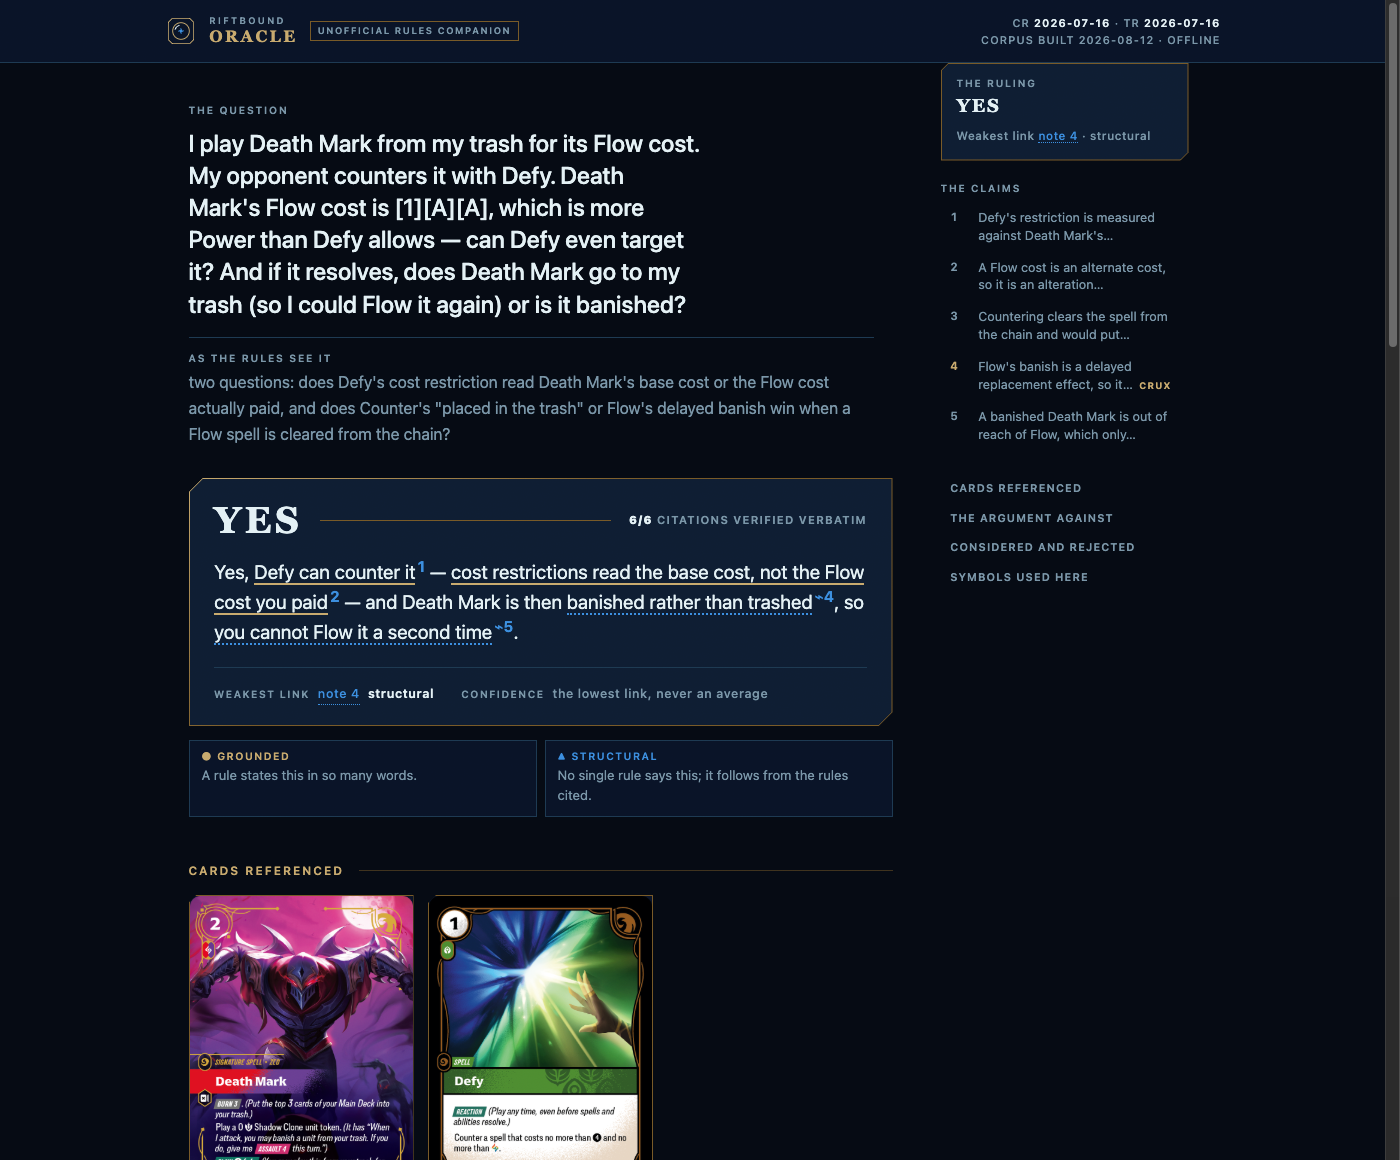
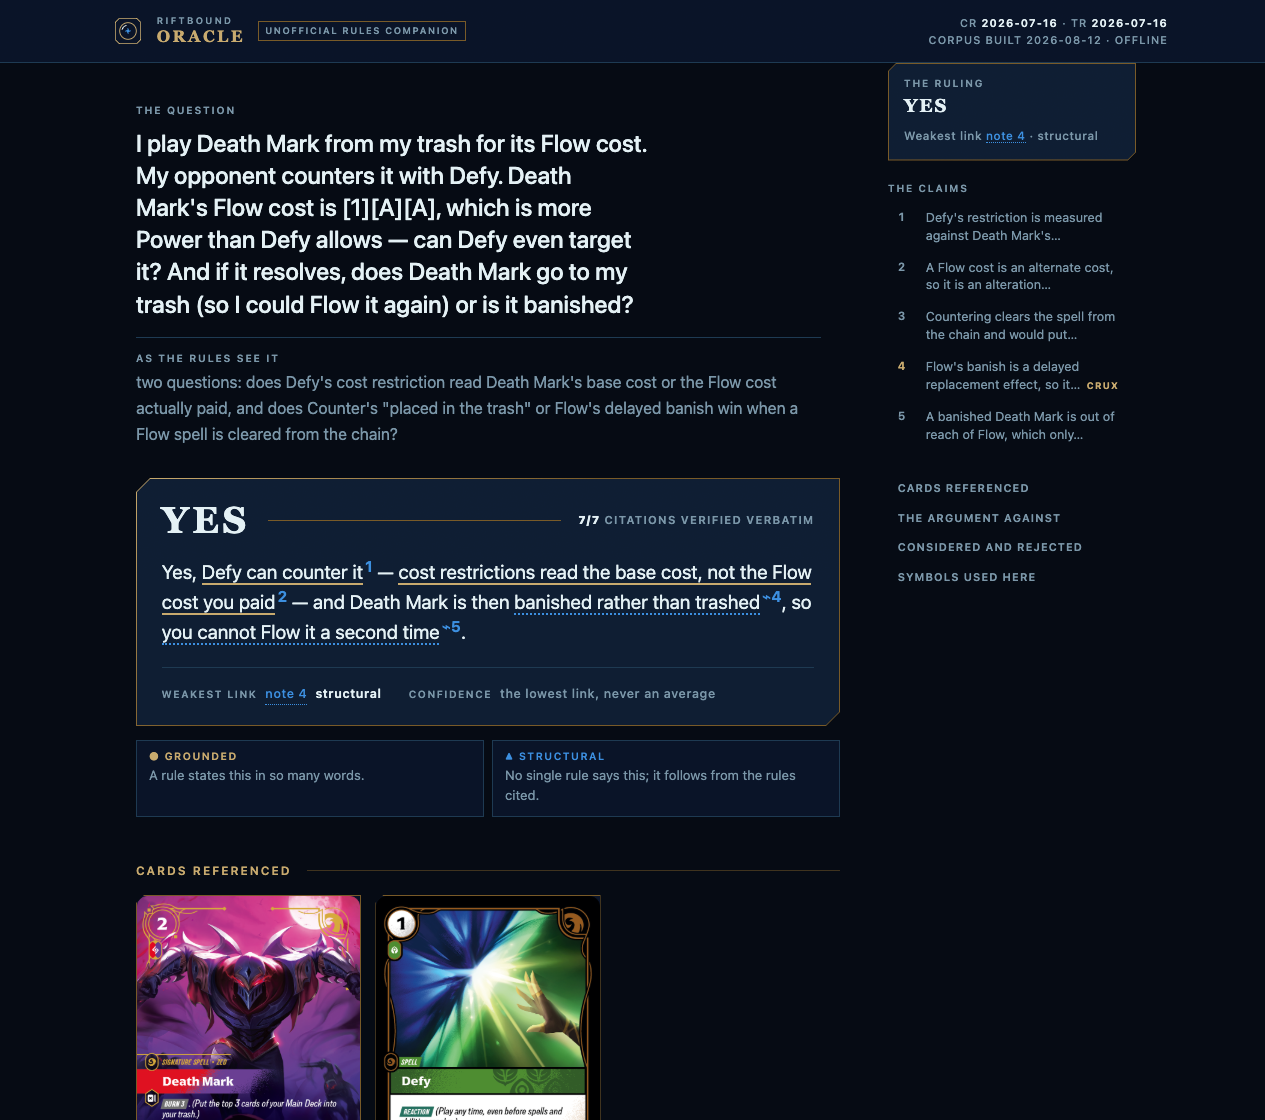
fix(report): print legibility, a fabricated legend row, and three crash paths
Browser and print verification of the rebuild, plus an adversarial review pass.
Fifteen findings confirmed; the substantive ones fixed here.

PRINT INVERTED THE ARGUMENT
  The print block remaps the semantic tokens but not the raw palette ones, so
  anything reaching for a palette value directly kept its dark-ground colour on
  paper. --gold-500 printed at 2.23:1 on white, --slate-300 at 3.11:1,
  --mist-100 at 1.15:1.

  The worst of it: .sp-grounded uses --gold-500 and .sp-inferred uses --blue,
  which IS remapped. On paper the grounded half of the verdict line all but
  vanished while the inferred half printed at 16.75:1 — the epistemic hierarchy
  of the one-line answer reversed, on the artifact judges actually read. The
  .prob and .card-gap failure markers lost their border entirely and printed as
  unmarked paragraphs.

  Remapping the three palette tokens in the print :root fixes every symptom at
  once, including the two border cases a colour-only selector list cannot reach.
  All six surfaces move 2.23:1 -> 6.38:1. Verified by printing to PDF and
  looking at it.

A FABRICATED LEGEND ROW IN EVERY REPORT
  legend_html scanned the finished page with tags stripped but script BODIES
  left in. The overlay JS contains `m[1]` and `m[2]`, so every report shipped a
  "[1] · [2] — that much Energy" row citing CR 429.5 for symbols appearing
  nowhere on the page. That is a fabricated citation, which is the one thing
[…]

diff --git a/.claude/skills/rules-report/data/rules.html b/.claude/skills/rules-report/data/rules.html
@@ -35,7 +35,7 @@ h1::after{content:"";flex:1;height:1px;background:var(--gold-700);opacity:.5}
 .meta{margin-top:.7rem;color:var(--dim);font:500 .76rem/1.6 var(--plate);letter-spacing:.05em}
 .search{width:100%;margin:1.1rem 0 0;padding:.7rem .8rem;border:1px solid var(--line);
  background:var(--card);color:var(--fg);font:400 .92rem/1.4 var(--body)}
-.search::placeholder{color:var(--slate-400)}
+.search::placeholder{color:var(--dim)}
 .search:focus-visible{outline:2px solid var(--gold-500);outline-offset:2px;border-color:var(--gold-500)}
 .toc-doc h3{margin:1.6rem 0 .5rem;font:600 .68rem/1 var(--plate);letter-spacing:.17em;
  text-transform:uppercase;color:var(--gold-500)}
@@ -68,7 +68,10 @@ a.xref:hover{color:var(--fg);border-bottom-color:var(--fg)}
 .eg{margin:.4rem 0 .4rem 5.5rem;padding:.5rem .8rem;background:var(--card);
  border-left:2px solid var(--gold-700);font-size:.87rem;color:var(--dim);max-width:64ch}
 .see{margin:.25rem 0 .25rem 5.5rem;font:500 .76rem/1.6 var(--plate);letter-spacing:.06em;
- color:var(--slate-400)}
+ /* --dim, not slate-400: that is the divider floor (3.4:1 here) and this is
+    text. An unresolvable cross-reference stays as bare text, so the refs you
+    cannot follow were also the ones you could barely read. */
+ color:var(--dim)}
 .see a{color:var(--accent);text-decoration:none;border-bottom:1px dotted var(--accent)}
 .see a:hover{color:var(--fg);border-bottom-color:var(--fg)}
 a:focus-visible{outline:2px solid var(--gold-500);outline-offset:2px}
@@ -78,7 +81,11 @@ a:focus-visible{outline:2px solid var(--gold-500);outline-offset:2px}
     page background is transparent, and the sheet prints black on black. */
  :root{color-scheme:light;
   --bg:transparent;--fg:var(--ink-900);--dim:var(--slate-400);--line:var(--slate-400);
-  --card:transparent;--accent:var(--ink-700);--wash:transparent;--lift:transparent}
+  --card:transparent;--accent:var(--ink-700);--wash:transparent;--lift:transparent;
+  /* Raw palette tokens need remapping too, not just the semantic ones —
+     anything using one DIRECTLY kept its dark-ground value on paper
+     (slate-300 3.1:1, gold-500 2.2:1, mist-100 1.2:1 on white). */
+  --slate-300:var(--slate-400);--gold-500:var(--gold-700);--mist-100:var(--slate-400)}
  html,body{background:transparent}
  body{font-size:10.5pt}
  .grain,.search{display:none!important}

diff --git a/.claude/skills/rules-report/lib/render_report.py b/.claude/skills/rules-report/lib/render_report.py
@@ -103,6 +103,14 @@ def _check_holding(ans, idx):
 
     covered = 0
     for sp in spans:
+        # Spans are model-generated too. Note bases are validated and coerced
+        # a few lines below; spans were not, so an unknown value reached
+        # holding_html and raised KeyError mid-render.
+        if sp.get("basis") not in BASIS:
+            problems.append(
+                f'holding span "{str(sp.get("text", ""))[:30]}" has unknown basis '
+                f'{sp.get("basis")!r}')
+            sp["basis"] = "inferred"
         text = sp.get("text", "")
         if text not in line:
             problems.append(f'holding span "{text[:40]}" is not a substring of holding.line')
@@ -354,7 +362,14 @@ def legend_html(page_html, idx):
     # Unescape after stripping tags: the keyword marker [>] is written into the
     # page as `[&gt;]`, so scanning the raw HTML silently never matched it —
     # the one symbol a reader is least likely to guess.
-    visible = html.unescape(re.sub(r"<[^>]+>", " ", page_html))
+    # Strip script/style BODIES first. Removing only tags left their text
+    # content in the scan, and the overlay JS contains `m[1]` and `m[2]` — so
+    # every report shipped a fabricated "[1] · [2] = that much Energy" row
+    # citing CR 429.5, for symbols that appear nowhere on the page. A legend
+    # entry is a citation; inventing one is the failure this project exists to
+    # prevent.
+    body = re.sub(r"<(script|style)\b.*?</\1>", " ", page_html, flags=re.S | re.I)
+    visible = html.unescape(re.sub(r"<[^>]+>", " ", body))
     used = scan(visible, legend)
     if not used:
         return ""
@@ -524,7 +539,8 @@ def cards_html(ans):
             gap = (f'<span class="card-gap">Printed text incomplete — {esc(c["incomplete"])}. '
                    "Read it from the card image.</span>")
 
-        slug = re.sub(r"[^a-z0-9]+", "-", c["name"].lower()).strip("-") or "card"
+        # Model-generated JSON: the name key exists but need not be a string.
+        slug = re.sub(r"[^a-z0-9]+", "-", str(c.get("name", "")).lower()).strip("-") or "card"
         out.append(
             f'<figure class="card plate" data-od-id="card-{esc(slug)}">' + art
             + '<figcaption>'
@@ -977,7 +993,15 @@ a:focus-visible,button:focus-visible,summary:focus-visible{outline:2px solid var
  :root{color-scheme:light;
   --bg:transparent;--surface:transparent;--well:transparent;--fg:var(--ink-900);
   --muted:var(--slate-400);--line:var(--gold-700);--rule:var(--slate-400);--accent:var(--gold-700);
-  --blue:var(--ink-700);--wash:transparent;--lift:transparent;--sink:transparent}
+  --blue:var(--ink-700);--wash:transparent;--lift:transparent;--sink:transparent;
+  /* Raw palette tokens have to be remapped too, not just the semantic ones.
+     Anything reaching for a palette value DIRECTLY kept its dark-ground colour
+     on paper: gold-500 at 2.23:1, slate-300 at 3.11:1, mist-100 at 1.15:1.
+     The worst of it inverted the argument — .sp-grounded (gold-500) all but
+     vanished while .sp-inferred (--blue, correctly remapped) printed at
+     16.75:1, so the inferred half of the verdict line looked the better
+     supported one. */
+  --gold-500:var(--gold-700);--slate-300:var(--slate-400);--mist-100:var(--slate-400)}
  html,body{background:transparent}
  body{color:var(--fg);font-size:11pt;padding-bottom:0}
  .grain,.rail,.rb-overlay,.copy,.rulebook-link,.skip,.unofficial{display:none!important}
@@ -1030,11 +1054,20 @@ window.addEventListener('afterprint', function(){
   links.forEach(function(a){ map[a.getAttribute('href').slice(1)]=a; });
   var io=new IntersectionObserver(function(entries){
     entries.forEach(function(en){ seen[en.target.id]=en.isIntersecting; });
-    // Topmost note currently in the reading band, or none at all: at the top of
-    // the page and past the last note nothing is being read, and a highlight
-    // left behind points at a claim the reader has scrolled away from.
-    var current=null;
-    Object.keys(map).forEach(function(id){ if(!current && seen[id]) current=id; });
+    // Pick the note occupying MOST of the reading band, not the first one that
+    // happens to touch it. Taking the topmost meant a claim whose last 14px
+    // were still in the band beat the claim actually filling it, so the rail
+    // lagged one behind what you were reading — the opposite of the point.
+    // None at all is a valid answer: above the first note and below the last,
+    // a leftover highlight points at a claim you have scrolled away from.
+    var top=innerHeight*0.12, bot=innerHeight*0.32, current=null, best=0;
+    Object.keys(map).forEach(function(id){
+      if(!seen[id]) return;
+      var el=document.getElementById(id); if(!el) return;
+      var r=el.getBoundingClientRect();
+      var overlap=Math.min(r.bottom,bot)-Math.max(r.top,top);
+      if(overlap>best){ best=overlap; current=id; }
+    });
     links.forEach(function(l){ l.classList.remove('here'); });
     if(current) map[current].classList.add('here');
   },{rootMargin:'-12% 0px -68% 0px'});
@@ -1130,8 +1163,13 @@ def render(ans, idx):
                      flags=re.I)
 
     problems = "".join(f'<li>{esc(p)}</li>' for p in ans.get("_problems", []))
-    ncites = sum(len(n.get("cites", [])) for n in ans["notes"])
-    nverified = sum(1 for n in ans["notes"] for c in n.get("cites", []) if c["verified"])
+    # Every citation the verifier checked, not just the notes'. A failed
+    # counterargument cite forces UNSETTLED, so excluding it let the headline
+    # metric read "6/6 verified" on the one report where one demonstrably did not.
+    _cites = [c for src in list(ans["notes"]) + list(ans.get("counterargument", []))
+              for c in src.get("cites", [])]
+    ncites = len(_cites)
+    nverified = sum(1 for c in _cites if c["verified"])
 
     cards_block = cards_html(ans)
     key = basis_key_html(ans["notes"])
@@ -1249,7 +1287,13 @@ def main():
         for pb in ans["_problems"]:
             print(f"  ! {pb}", file=sys.stderr)
         sys.exit(1)
-    open(out, "w", encoding="utf-8").write(render(ans, idx))
+    # Render first, then write. `open(out,"w")` truncates on open, so a crash
+    # inside render() used to destroy the previous good report at that path —
+    # which matters most in the re-verify-a-saved-ruling flow, where the file
+    # being overwritten is the artifact you were checking.
+    html_out = render(ans, idx)
+    with open(out, "w", encoding="utf-8") as fh:
+        fh.write(html_out)
     ncites = sum(len(n.get("cites", [])) for n in ans["notes"])
     nver = sum(1 for n in ans["notes"] for c in n.get("cites", []) if c["verified"])
     print(f"wrote {out}")

diff --git a/.claude/skills/rules-report/lib/render_rulebook.py b/.claude/skills/rules-report/lib/render_rulebook.py
@@ -164,7 +164,7 @@ h1::after{content:"";flex:1;height:1px;background:var(--gold-700);opacity:.5}
 .meta{margin-top:.7rem;color:var(--dim);font:500 .76rem/1.6 var(--plate);letter-spacing:.05em}
 .search{width:100%;margin:1.1rem 0 0;padding:.7rem .8rem;border:1px solid var(--line);
  background:var(--card);color:var(--fg);font:400 .92rem/1.4 var(--body)}
-.search::placeholder{color:var(--slate-400)}
+.search::placeholder{color:var(--dim)}
 .search:focus-visible{outline:2px solid var(--gold-500);outline-offset:2px;border-color:var(--gold-500)}
 .toc-doc h3{margin:1.6rem 0 .5rem;font:600 .68rem/1 var(--plate);letter-spacing:.17em;
  text-transform:uppercase;color:var(--gold-500)}
@@ -197,7 +197,10 @@ a.xref:hover{color:var(--fg);border-bottom-color:var(--fg)}
 .eg{margin:.4rem 0 .4rem 5.5rem;padding:.5rem .8rem;background:var(--card);
  border-left:2px solid var(--gold-700);font-size:.87rem;color:var(--dim);max-width:64ch}
 .see{margin:.25rem 0 .25rem 5.5rem;font:500 .76rem/1.6 var(--plate);letter-spacing:.06em;
- color:var(--slate-400)}
+ /* --dim, not slate-400: that is the divider floor (3.4:1 here) and this is
+    text. An unresolvable cross-reference stays as bare text, so the refs you
+    cannot follow were also the ones you could barely read. */
+ color:var(--dim)}
 .see a{color:var(--accent);text-decoration:none;border-bottom:1px dotted var(--accent)}
 .see a:hover{color:var(--fg);border-bottom-color:var(--fg)}
 a:focus-visible{outline:2px solid var(--gold-500);outline-offset:2px}
@@ -207,7 +210,11 @@ a:focus-visible{outline:2px solid var(--gold-500);outline-offset:2px}
     page background is transparent, and the sheet prints black on black. */
  :root{color-scheme:light;
   --bg:transparent;--fg:var(--ink-900);--dim:var(--slate-400);--line:var(--slate-400);
-  --card:transparent;--accent:var(--ink-700);--wash:transparent;--lift:transparent}
+  --card:transparent;--accent:var(--ink-700);--wash:transparent;--lift:transparent;
+  /* Raw palette tokens need remapping too, not just the semantic ones —
+     anything using one DIRECTLY kept its dark-ground value on paper
+     (slate-300 3.1:1, gold-500 2.2:1, mist-100 1.2:1 on white). */
+  --slate-300:var(--slate-400);--gold-500:var(--gold-700);--mist-100:var(--slate-400)}
  html,body{background:transparent}
  body{font-size:10.5pt}
  .grain,.search{display:none!important}

diff --git a/docs/report-anatomy.md b/docs/report-anatomy.md
@@ -77,7 +77,7 @@ the legend is there to become unnecessary. See
 
 Judges print these. The screen report is dark by design — it follows the Runeterra
 visual language, blue-black ground and aged-gold hairlines — but printing inverts the
-whole system to a light sheet: dark ink, Gold 700 hairlines (Gold 500 is only 2.4:1 on
+whole system to a light sheet: dark ink, Gold 700 hairlines (Gold 500 is only 2.2:1 on
 white), every `<details>` forced open so no evidence hides, and the rail, the grain and
 both buttons dropped. `UNSETTLED`, the forced-verdict banner and a failed citation print
 as ruled boxes rather than as fills.
